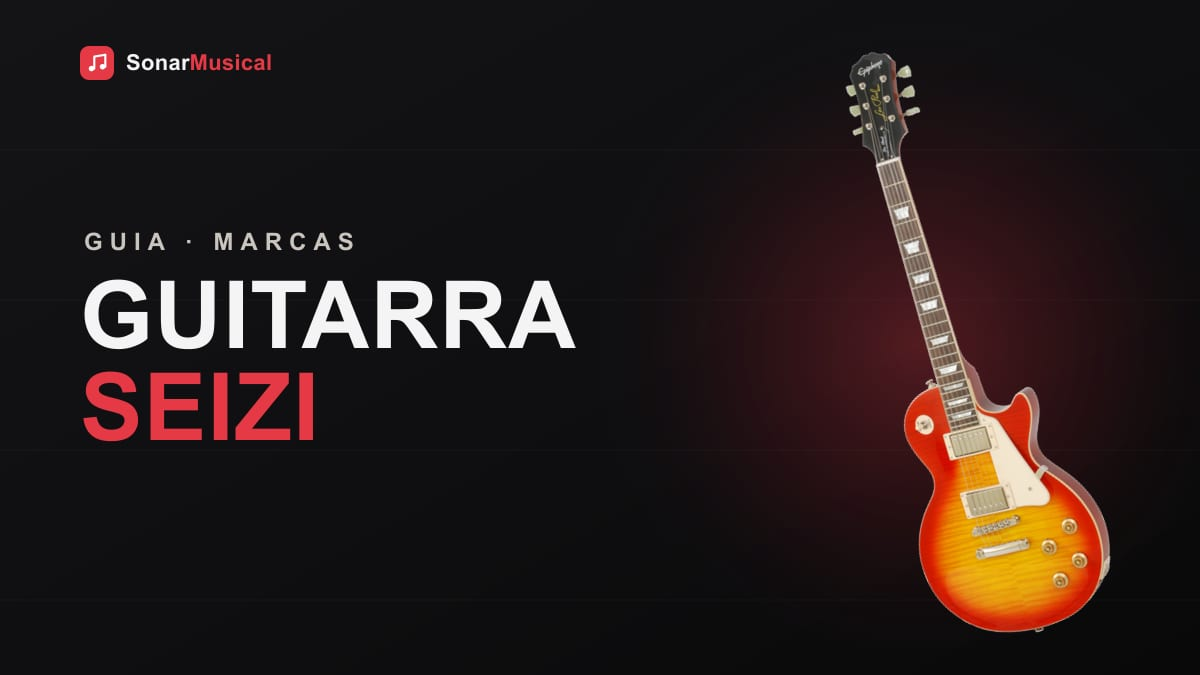
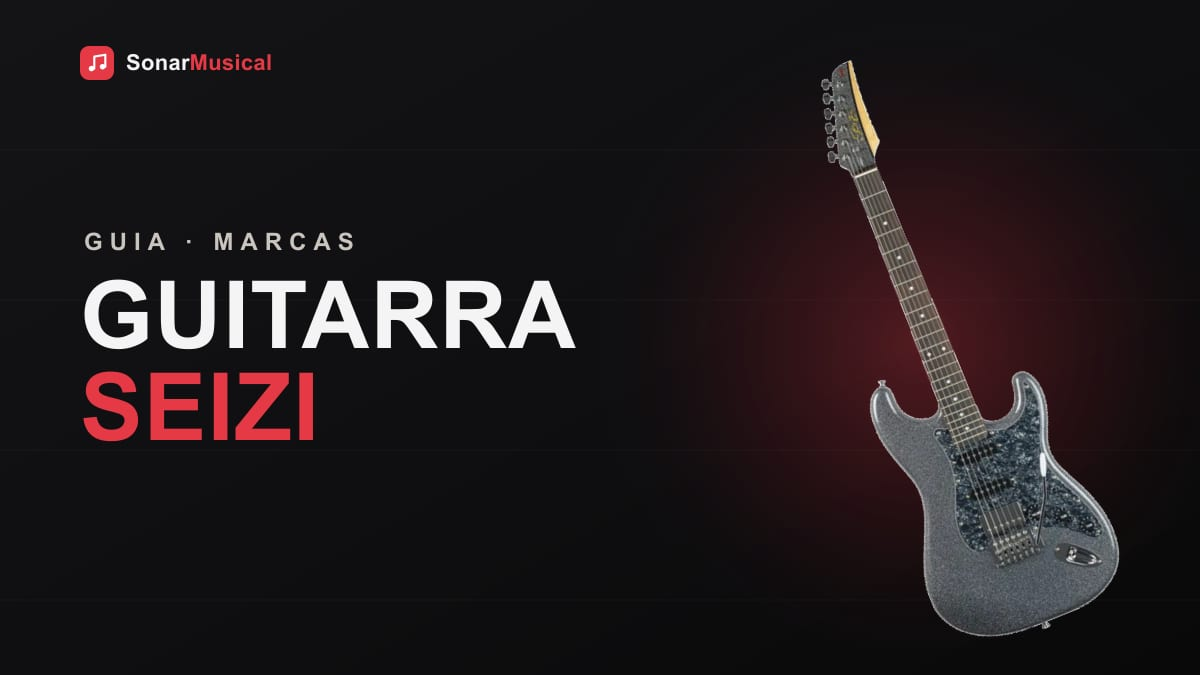
fix(css): tabela markdown não deixa mais coluna vazia no desktop (width max-content); remove barra vermelha duplicada no título de seção (h2 com classe); capa da Seizi vira foto real de Seizi

Changed region(s): [[0.6783, 0.0622, 0.9558, 0.9644]]

diff --git a/src/data/creditos.ts b/src/data/creditos.ts
@@ -391,14 +391,6 @@ export const CREDITOS_CAPAS: CreditoCapa[] = [
     fonteUrl: "https://commons.wikimedia.org/wiki/File:Gibson_ES_355_59_GCS_AvR.png",
   },
   {
-    descricao: "Epiphone Les Paul Standard 1960 (guia da Seizi)",
-    autor: "muzyczny.pl",
-    autorUrl: "http://muzyczny.pl",
-    licenca: "CC BY-SA 4.0",
-    licencaUrl: "https://creativecommons.org/licenses/by-sa/4.0/deed.pt",
-    fonteUrl: "https://commons.wikimedia.org/wiki/File:Gitara_elektryczna_Les_Paul_Standard_1960_HS_Limited_Edition_firmy_Epiphone.jpg",
-  },
-  {
     descricao: "Peavey Generation EXP Telecaster (guia da Memphis)",
     autor: "Auge=mit",
     autorUrl: "https://commons.wikimedia.org/wiki/User:Auge%3Dmit",
